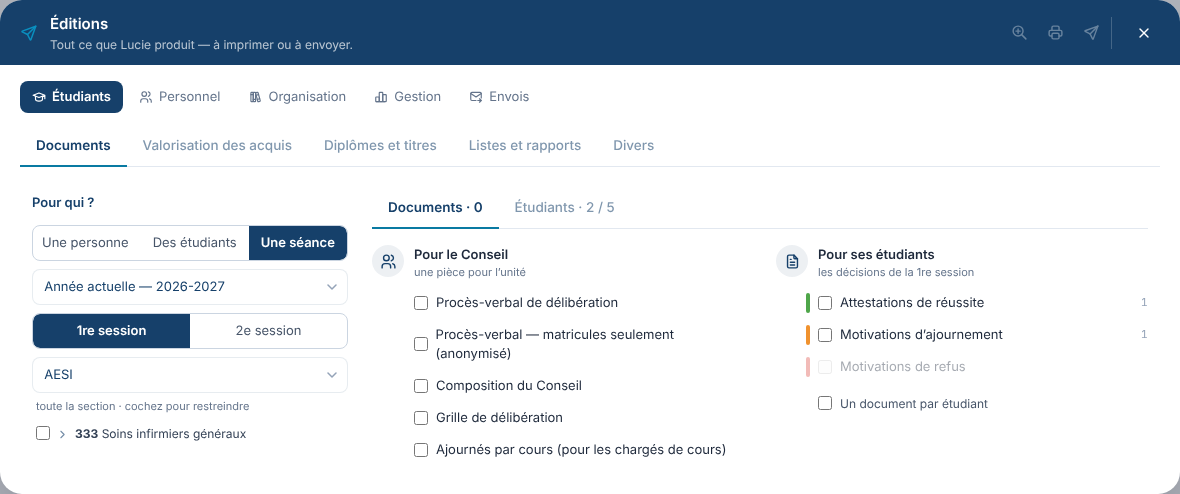
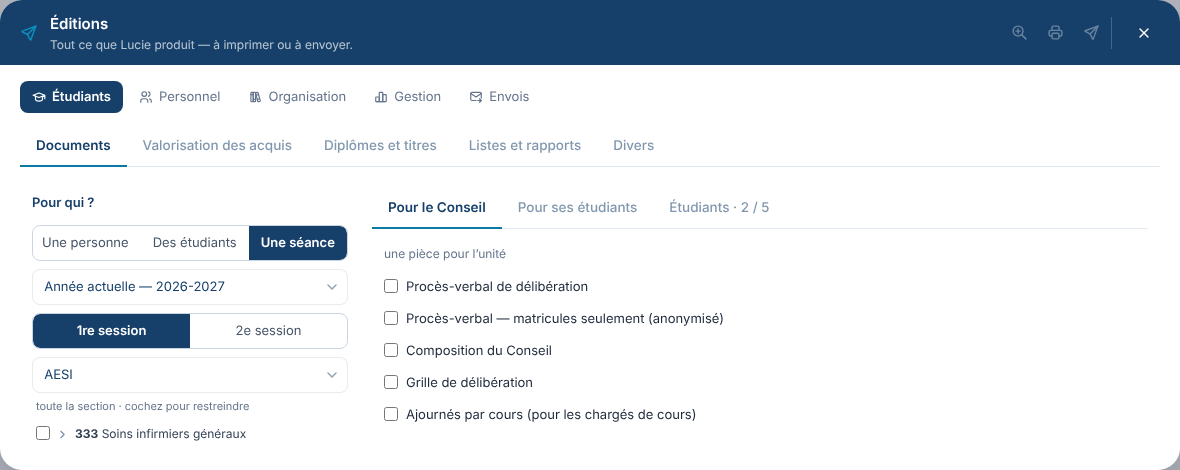
3.1.499 — Éditions : à droite, Résultats · Inscription · Étudiants (pour une séance : Pour le Conseil · Pour ses étudiants · Étudiants), une face à la fois
Claude-Session: https://claude.ai/code/session_012qruWSafZoY4zbyAWnavcA

diff --git a/frontend/src/components/CentreImpressionCentral.jsx b/frontend/src/components/CentreImpressionCentral.jsx
@@ -75,20 +75,6 @@ const ONGLETS = [
    l'ajournement, brique pour le refus — les couleurs d'état réglées. Les autres pièces n'en portent pas. */
 const REPERE_PIECE = { reussite: 'var(--c-reussi, #3E7D5E)', ajournement: 'var(--c-attente, #B45309)', refus: 'var(--c-refuse, #9D4A38)' };
 
-/** Le titre d'une carte de pièces : une icône, l'intitulé, et ce qu'elle contient. */
-function TitreCarte({ Icone, titre, sous }) {
-  return (
-    <div className="flex items-start gap-2.5 mb-1.5">
-      <span className="flex-none w-8 h-8 rounded-full inline-flex items-center justify-center text-iip-blue"
-        style={{ background: 'color-mix(in srgb, var(--c-principal) 8%, transparent)' }}><Icone size={17} /></span>
-      <div className="min-w-0">
-        <div className="text-sm font-semibold">{titre}</div>
-        <div className="text-xs text-slate-500">{sous}</div>
-      </div>
-    </div>
-  );
-}
-
 /* LES ACTIONS DANS LA BARRE BLEUE (3.1.497, Charles : « comme dans d'autres fenêtres, aperçu, produire ou envoyer
    doivent être dans la barre bleue du haut, sous forme d'icônes — loupe, imprimante, avion »). La fenêtre offre une
    place à côté de la croix ; l'onglet des pièces y dépose ses trois gestes (portail React). */
@@ -1667,7 +1653,10 @@ function OngletEtudiants({ perimetre = null, seul = null, onRevenir = null }) {
   /* LES SESSIONS DES PIÈCES DE L'ÉTUDIANT (3.1.497, Charles : « S1, S2 ou tout — S2 seulement si elle existe, sinon
      grisé ») : deux cases, les deux = tout. La liste se lit sur la première cochée. Au Conseil, une séance = une
      session : le choix reste au Périmètre. */
-  const [vueDroite, setVueDroite] = useState('documents');
+  /* TROIS FACES (Charles, 30 octobre 2026 : « le sous-menu, ce n'est pas Documents et Étudiants, c'est Résultats ou
+     Inscription ») : les deux familles de pièces, puis les étudiants. Pour une séance : Pour le Conseil · Pour ses
+     étudiants · Étudiants. « etudiants » est la face commune. */
+  const [vueDroite, setVueDroite] = useState(() => (perimetre?.pieces || []).some(c => PIECES_DOSSIER.some(p => p.cle === c) && !CLES_RESULTATS.includes(c)) ? 'b' : 'a');
   // Les sections : celles que l'écran passe, sinon celles des étudiants sélectionnés dans la liste.
   const [sections, setSections] = useState(() => new Set(perimetre?.sections
     || (!perimetre?.coches && selectionEtudiants().ids.length ? selectionEtudiants().sections : [])));
@@ -1706,8 +1695,11 @@ function OngletEtudiants({ perimetre = null, seul = null, onRevenir = null }) {
     const garde = new Set(famillePieces.map(p => p.cle));
     setChoix(c => Object.fromEntries(Object.entries(c).filter(([k]) => garde.has(k))));
     if (seance) setParcours(false);
+    setVueDroite(v => v === 'etudiants' ? v : 'a');
     // eslint-disable-next-line
   }, [pourQui]);
+  // Tout le parcours n'a pas de face « Inscription ».
+  useEffect(() => { if (parcours && vueDroite === 'b') setVueDroite('a'); }, [parcours, vueDroite]);
   /* LES COCHÉS : ceux que l'écran passe, sinon la sélection de la liste des
      étudiants (lib/selectionEtudiants.js) — ouvrir Éditions depuis le rail ne
      la perd plus. */
@@ -2095,7 +2087,7 @@ function OngletEtudiants({ perimetre = null, seul = null, onRevenir = null }) {
   };
   /** Une pièce à cocher — repère de couleur, case, intitulé, public, compte. */
   const lignePiece = p => (
-<label key={p.cle} className={`flex items-center gap-2 pl-[30px] py-1.5 text-sm ${dispo(p) ? 'cursor-pointer' : 'opacity-40 cursor-not-allowed'}`}
+<label key={p.cle} className={`flex items-center gap-2 py-1.5 text-sm ${dispo(p) ? 'cursor-pointer' : 'opacity-40 cursor-not-allowed'}`}
     title={dispo(p) ? '' : modePublic && publicDe(p) !== modePublic && PIECES_DOSSIER.includes(p) ? `Pièces ${modePublic.toUpperCase()} en cours — décochez-les pour les autres pièces` : 'Rien à produire pour ce périmètre'}>
     {/* LA PETITE LIGNE DIT LE SENS (2 octobre 2026) : orange pour
         l'ajournement, fraise pour le refus. */}
@@ -2332,8 +2324,15 @@ function OngletEtudiants({ perimetre = null, seul = null, onRevenir = null }) {
             {/* DEUX FACES, UNE PLACE (3.1.497, Charles : « deux onglets façon sous-menu ») : les documents, ou les
                 étudiants — on choisit l'un puis l'autre, et chacun a toute la hauteur. */}
             <span className="inline-flex">
-              <button type="button" onClick={() => setVueDroite('documents')}
-                className={`onglet-page ${vueDroite === 'documents' ? 'onglet-page-actif' : ''}`}>Documents · {nbPieces}</button>
+              {(seance ? [['a', 'Pour le Conseil', PIECES.filter(p => !p.nominatif)], ['b', 'Pour ses étudiants', PIECES.filter(p => p.nominatif)]]
+                : [['a', 'Résultats', famillePieces.filter(p => CLES_RESULTATS.includes(p.cle))],
+                   ...(parcours ? [] : [['b', 'Inscription', famillePieces.filter(p => !CLES_RESULTATS.includes(p.cle))]])])
+                .map(([v, lib, ps]) => {
+                  const n = ps.filter(p => choix[p.cle] && dispo(p)).length;
+                  return (
+                    <button key={v} type="button" onClick={() => setVueDroite(v)}
+                      className={`onglet-page ${vueDroite === v ? 'onglet-page-actif' : ''}`}>{lib}{n ? ` · ${n}` : ''}</button>);
+                })}
               <button type="button" onClick={() => setVueDroite('etudiants')}
                 className={`onglet-page ${vueDroite === 'etudiants' ? 'onglet-page-actif' : ''}`}>Étudiants · {coches.size} / {visibles.length}</button>
             </span>
@@ -2355,18 +2354,18 @@ function OngletEtudiants({ perimetre = null, seul = null, onRevenir = null }) {
             </div>
           )}
         </div>
-        {vueDroite === 'documents' ? (
+        {vueDroite !== 'etudiants' ? (
         <div className="flex-1 overflow-auto min-h-0 p-3 space-y-4">
-          <div className="grid gap-x-8 gap-y-5 md:grid-cols-2 pt-1">
+          <div className="pt-1 max-w-xl">
             {seance ? <>
-            <div>
-              <TitreCarte Icone={IconUsers} titre="Pour le Conseil" sous="une pièce pour l’unité" />
+            <div className={vueDroite === 'a' ? '' : 'hidden'}>
+              <p className="text-second text-slate-500 mt-0 mb-2 pl-3">une pièce pour l’unité</p>
               {PIECES.filter(p => !p.nominatif).map(lignePiece)}
             </div>
-            <div>
-              <TitreCarte Icone={IconFileText} titre="Pour ses étudiants" sous={`les décisions de la ${session === 1 ? '1re' : '2e'} session`} />
+            <div className={vueDroite === 'b' ? '' : 'hidden'}>
+              <p className="text-second text-slate-500 mt-0 mb-2 pl-3">{`les décisions de la ${session === 1 ? '1re' : '2e'} session`}</p>
               {PIECES.filter(p => p.nominatif).map(lignePiece)}
-              <label className="flex items-center gap-2 pl-[42px] pt-3 text-second text-slate-600 cursor-pointer">
+              <label className="flex items-center gap-2 pl-3 pt-3 text-second text-slate-600 cursor-pointer">
                 <input type="checkbox" checked={separer}
                   onChange={e => {
                     setSeparer(e.target.checked);
@@ -2377,12 +2376,12 @@ function OngletEtudiants({ perimetre = null, seul = null, onRevenir = null }) {
               </label>
             </div>
             </> : <>
-            <div>
-              <TitreCarte Icone={IconFileText} titre="Résultats" sous={parcours ? "toutes ses années, pour chaque étudiant coché" : "attestations de l’année, bulletin"} />
+            <div className={vueDroite === 'a' ? '' : 'hidden'}>
+              <p className="text-second text-slate-500 mt-0 mb-2 pl-3">{parcours ? "toutes ses années, pour chaque étudiant coché" : "attestations de l’année, bulletin"}</p>
               {famillePieces.filter(p => CLES_RESULTATS.includes(p.cle) && (!parcours || p.cle === 'reussite')).map(lignePiece)}
             </div>
-            <div className={parcours ? 'hidden' : ''}>
-              <TitreCarte Icone={IconId} titre="Inscription" sous="PAE, fiche, frais — les annexes ne vont qu’aux SLE, les pièces CEP qu’aux étudiants au congé-éducation" />
+            <div className={parcours || vueDroite !== 'b' ? 'hidden' : ''}>
+              <p className="text-second text-slate-500 mt-0 mb-2 pl-3">PAE, fiche, frais — les annexes ne vont qu’aux SLE, les pièces CEP qu’aux étudiants au congé-éducation</p>
               {famillePieces.filter(p => !CLES_RESULTATS.includes(p.cle)).map(lignePiece)}
             </div>
             </>}

diff --git a/backend/src/lib/modeEmploi.js b/backend/src/lib/modeEmploi.js
@@ -10,7 +10,7 @@
  *   savoir — ce qu'il faut savoir : les règles qui bloquent ou qui surprennent.
  * Il explique le travail, pas l'informatique (CLAUDE.md, § 7). La version décrite se dit en tête.
  */
-export const VERSION_DECRITE = '3.1.497';
+export const VERSION_DECRITE = '3.1.499';
 
 export const RUBRIQUES = [
   {
@@ -900,15 +900,16 @@ export const RUBRIQUES = [
         texte: "La première question est « Pour qui ? ». « Une personne » : cherchez-la par son nom ou son matricule dans toute l'école, puis « ouvrir ses pièces » — de l'année, ou de tout son parcours. « Des étudiants » : une section, ses unités, des cases à cocher — leurs attestations de réussite, bulletin, PAE, fiche, frais, annexes, pièces CEP, de l'année ou de tout le parcours (une inspection : tout sortir vite). « Une séance » : l'année, la session, l'unité — « Pour le Conseil » (PV, composition, grille, ajournés par cours) et « Pour ses étudiants » (attestations, motivations d'ajournement et de refus). Les autres onglets : « Valorisation des acquis » (par unité), « Diplômes et titres », « Listes et rapports », « Divers » (les lettres composées dans l'atelier).",
         savoir: [
           "La session n'appartient qu'à la séance : une attestation de réussite n'en a pas besoin.",
-          "À droite, deux faces : « Documents » (ce qu'on sort) et « Étudiants » (qui le reçoit).",
+          "À droite, des sous-onglets : « Résultats », « Inscription » et « Étudiants » (qui reçoit) — pour une séance, « Pour le Conseil », « Pour ses étudiants » et « Étudiants ». Le nombre de pièces cochées s'y lit.",
           "Une pièce sans rien à produire est grisée (attestation sans réussite, motivation de refus sans refus…).",
           "Mode SLE : cocher une annexe 1 ou 2 ne montre que les étudiants en séjour limité aux études. Mode CEP : cocher une pièce CEP ne montre que les étudiants au congé-éducation payé de l'année (hors Flandre).",
           "Dans la barre bleue : [[Aperçu|IconZoomIn]], [[Produire|IconPrinter]] et [[Envoyer|IconSend]] — par courriel, un document par personne, jamais de copie collective, à l'adresse d'école.",
         ],
         images: [
           { src: "/guide/editions-personne.png", legende: "« Une personne » (données d'essai) : le nom cherché à gauche, « ouvrir ses pièces » à droite." },
-          { src: "/guide/editions-groupe.png", legende: "« Des étudiants » : l'année ou tout le parcours, la section et ses unités ; à droite les résultats et l'inscription." },
-          { src: "/guide/editions-seance.png", legende: "« Une séance » : l'année, la session, l'unité ; « Pour le Conseil » et « Pour ses étudiants »." },
+          { src: "/guide/editions-groupe.png", legende: "« Des étudiants » : l'année ou tout le parcours, la section et ses unités ; à droite, les sous-onglets Résultats, Inscription, Étudiants." },
+          { src: "/guide/editions-inscription.png", legende: "Le sous-onglet « Inscription » : PAE, fiche, frais, annexes des SLE, pièces CEP." },
+          { src: "/guide/editions-seance.png", legende: "« Une séance » : l'année, la session, l'unité ; sous-onglets « Pour le Conseil », « Pour ses étudiants », « Étudiants »." },
         ],
       },
       {

diff --git a/backend/assets/nouveautes/2026-11.html b/backend/assets/nouveautes/2026-11.html
@@ -110,7 +110,7 @@
 <article class="nouveau" data-pour="sec coo dir">
   <h3>Éditions : « Pour qui ? »</h3>
   <span class="ou">Où : <b>l'avion → Étudiants → Documents</b>.</span>
-  <p>Une seule question d'abord : <b>une personne</b> (on la cherche dans toute l'école, puis ses pièces de l'année ou de tout son parcours), <b>des étudiants</b> (une section, des unités ; l'année ou tout le parcours — pour une inspection, tout sort en une fois), ou <b>une séance</b> (l'année, la session, l'unité : les pièces pour le Conseil et pour ses étudiants). La session ne se demande plus que pour une séance. « Délibération » et « Dossiers étudiants » laissent la place à « Documents » ; les lettres de l'atelier passent dans « Divers ». Aperçu, Produire et Envoyer sont dans la barre bleue.</p>
+  <p>Une seule question d'abord : <b>une personne</b> (on la cherche dans toute l'école, puis ses pièces de l'année ou de tout son parcours), <b>des étudiants</b> (une section, des unités ; l'année ou tout le parcours — pour une inspection, tout sort en une fois), ou <b>une séance</b> (l'année, la session, l'unité : les pièces pour le Conseil et pour ses étudiants). La session ne se demande plus que pour une séance. À droite, les sous-onglets « Résultats », « Inscription » et « Étudiants » (pour une séance : « Pour le Conseil », « Pour ses étudiants », « Étudiants »). « Délibération » et « Dossiers étudiants » laissent la place à « Documents » ; les lettres de l'atelier passent dans « Divers ». Aperçu, Produire et Envoyer sont dans la barre bleue.</p>
   <div class="etiquettes"><span class="etiquette dev">À l'essai</span></div>
 </article>
 

diff --git a/CLAUDE.md b/CLAUDE.md
@@ -2798,6 +2798,11 @@ circulé sans qu'on puisse dire qui l'avait sortie. « Je veux des traces. »
   une ligne ; la case de chaque pièce s'aligne sur le texte du titre de sa colonne (repère de couleur juste avant) ;
   plus de phrase sous les listes — « Un document par étudiant » n'existe que pour une séance, sous « Pour ses
   étudiants » ; l'aide sur les cours ne paraît que quand un cours se déplie ; espacements égaux à gauche.
+  **Les sous-onglets de droite** (3.1.499, Charles : « ce n'est pas Documents et Étudiants, c'est Résultats ou
+  Inscription » ; choisi : un 3e onglet Étudiants) : **Résultats · Inscription · Étudiants** (tout le parcours :
+  Résultats · Étudiants) ; pour une séance **Pour le Conseil · Pour ses étudiants · Étudiants**. Une face à la fois
+  (`vueDroite` 'a' | 'b' | 'etudiants'), le nombre de pièces cochées dans l'onglet ; on entre sur « Inscription »
+  quand l'appel n'apporte que des pièces d'inscription (le PAE de la revue).
 
 **L'ANNULER NE COMPARE QUE CE QUE LE GESTE A CHANGÉ** (3.1.482, Charles, 30 octobre 2026, en production :
   « Impossible d'annuler : utilisateur — la ligne a été modifiée depuis, par quelqu'un »). Se reconnecter écrit
